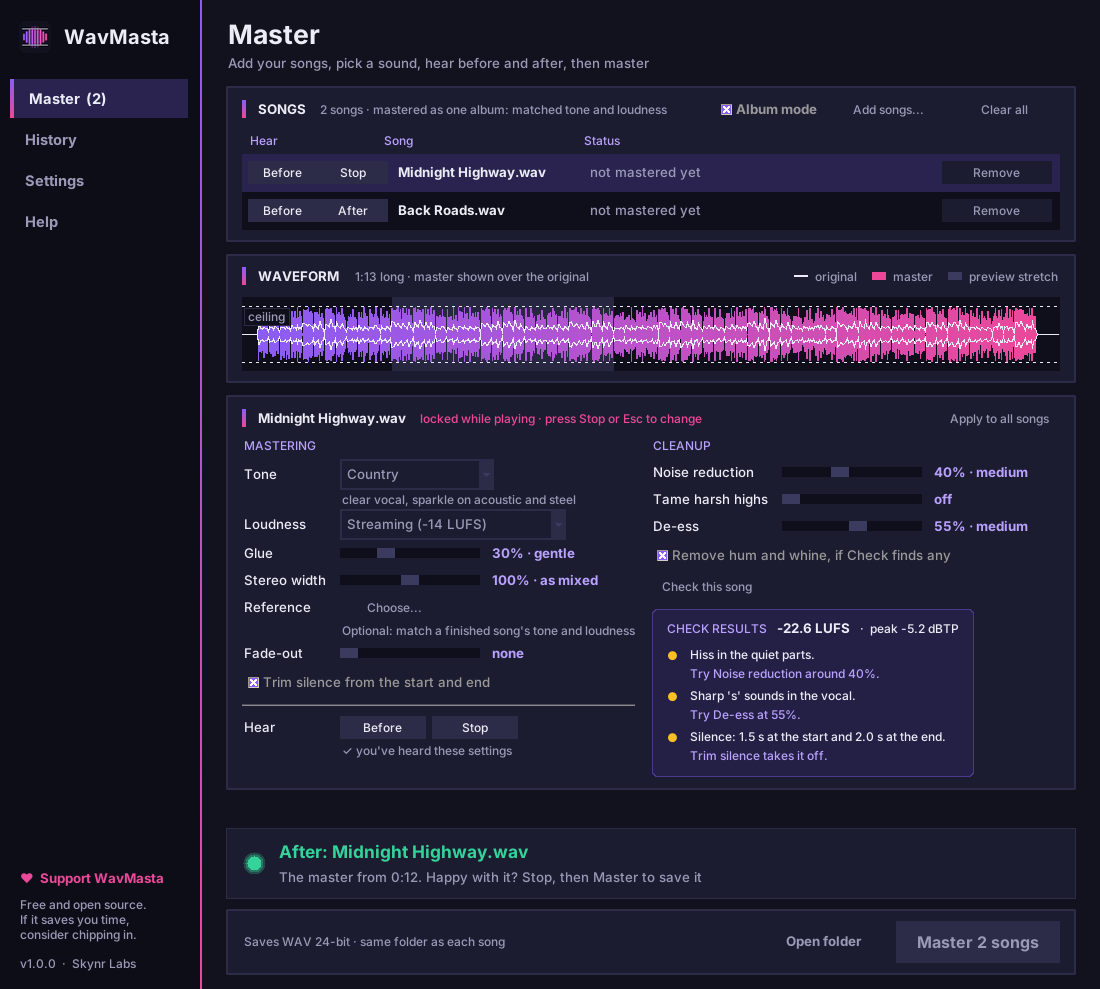
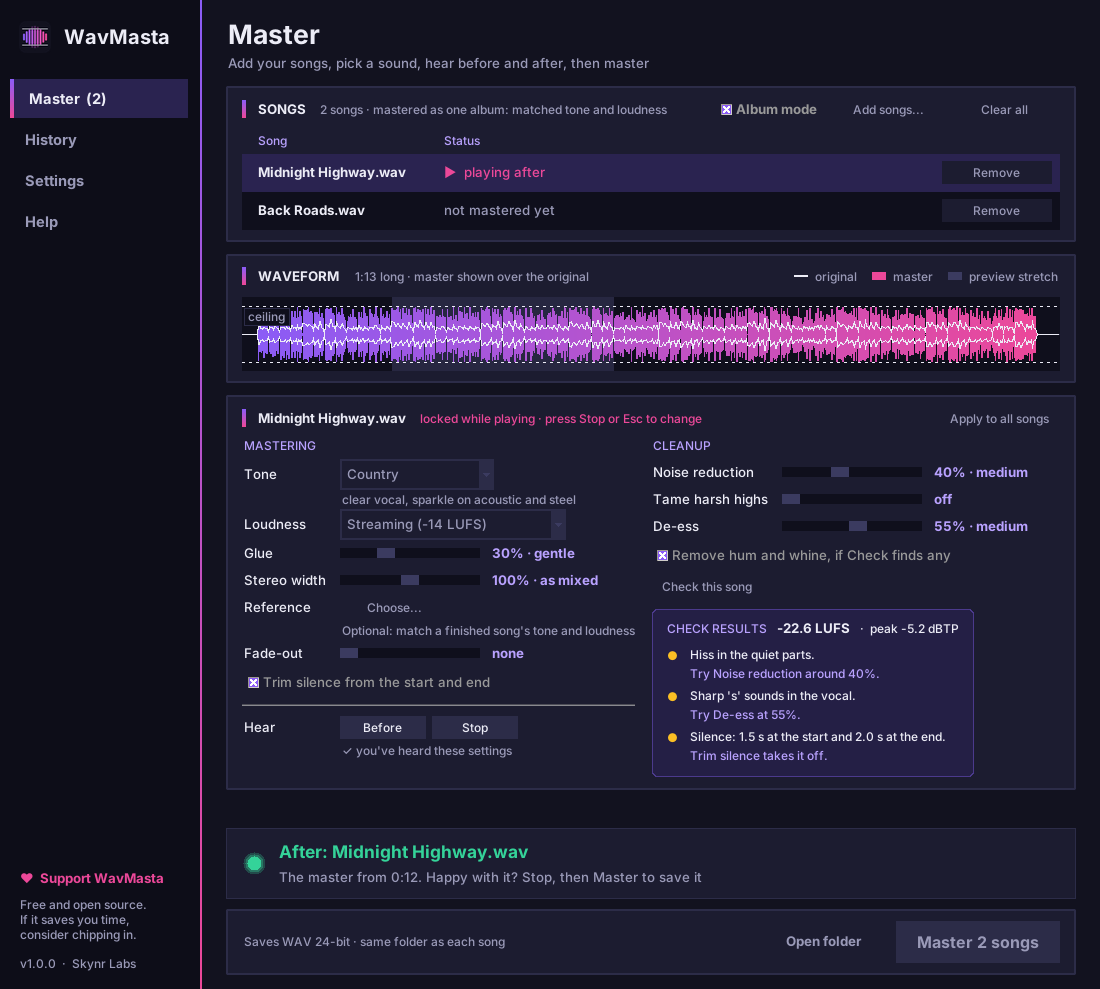
Take Before and After off the song rows: the sound card has them now
One place to listen, right under the settings. The songs list keeps the name, status and
Remove, and the song being heard says '▶ playing after' (or before) in its status until it stops.

Claude-Session: https://claude.ai/code/session_01Ce8T3vqW5MFDUd4Hd2ARY9

Changed region(s): [[0.2164, 0.1213, 0.4945, 0.2427], [0.5564, 0.1517, 0.6182, 0.182], [0.5255, 0.1213, 0.5564, 0.1517]]

diff --git a/wavmasta/gui/tracks_table.py b/wavmasta/gui/tracks_table.py
@@ -1,4 +1,7 @@
-"""The songs list: one row per song with Before and After buttons, status and a remove button."""
+"""The songs list: one row per song with its name, status and a remove button.
+
+Before and After live on the sound card, under the settings; the row of the song being heard
+says so in its status."""
 
 import tkinter as tk
 import tkinter.font as tkfont
@@ -10,15 +13,16 @@ from .theme import px
 ROW_HEIGHT = 38
 VISIBLE_ROWS = 4
 STATUS_COLORS = {"muted": "muted", "busy": "accent_soft", "ok": "ok", "warn": "warn"}
-# Pixel widths shared by the heading and every row so the columns line up: Before, After, Song, Status, Remove.
+# Pixel widths shared by the heading and every row so the columns line up: Song, Status, Remove.
 # Song is sized to fit the longest name (see TracksTable._layout); Status takes the rest.
-COLUMNS = [("Hear", 70), ("", 70), ("Song", 200), ("Status", 0), ("", 96)]
+COLUMNS = [("Song", 200), ("Status", 0), ("", 96)]
+SONG = 0  # index of the Song column
 SONG_SHARE = 0.55  # the Song column may use up to this much of the room left after the buttons
 
 
 def _columns(frame, song_width=None):
     for i, (_, width) in enumerate(COLUMNS):
-        w = song_width if (i == 2 and song_width) else px(frame, width)
+        w = song_width if (i == SONG and song_width) else px(frame, width)
         frame.columnconfigure(i, minsize=w, weight=1 if width == 0 else 0)
 
 
@@ -39,10 +43,10 @@ def fit_text(font, text, width):
 class TracksTable(ttk.Frame):
     """Rows are rebuilt when songs are added or removed; selection and status update in place."""
 
-    def __init__(self, parent, fonts, on_select, on_play, on_remove):
+    def __init__(self, parent, fonts, on_select, on_remove):
         super().__init__(parent, style="Inner.TFrame")
         self.F = fonts
-        self.on_select, self.on_play, self.on_remove = on_select, on_play, on_remove
+        self.on_select, self.on_remove = on_select, on_remove
         self.rows = []
         self.selected = None
         self.enabled = True
@@ -59,7 +63,7 @@ class TracksTable(ttk.Frame):
         _columns(head)
         for i, (text, _) in enumerate(COLUMNS):
             tk.Label(head, text=text, bg=T["card"], fg=T["accent_soft"], font=fonts["small"], anchor="w").grid(
-                row=0, column=i, sticky="w", padx=(6, 0) if i == 0 else 0
+                row=0, column=i, sticky="w", padx=(14, 0) if i == SONG else 0
             )
 
         self.canvas = tk.Canvas(self, bg=T["field"], highlightthickness=0, height=px(self, ROW_HEIGHT) * 2)
@@ -102,7 +106,7 @@ class TracksTable(ttk.Frame):
         else:
             self.empty.place(relx=0.5, rely=0.5, anchor="center")
         self.select(selected)
-        self.set_enabled(self.enabled, getattr(self, "keep_listening", False))
+        self.set_enabled(self.enabled)
         p = self.playing
         self.set_playing(p if p is not None and p[0] < n else None)
 
@@ -113,26 +117,17 @@ class TracksTable(ttk.Frame):
         frame.grid_propagate(False)
         frame.rowconfigure(0, weight=1)
         _columns(frame)
-        before = ttk.Button(
-            frame, text="Before", style="Small.TButton", width=6, command=lambda: self.on_play(i, "before")
-        )
-        before.grid(row=0, column=0, sticky="w", padx=(6, 0))
-        after = ttk.Button(
-            frame, text="After", style="Small.TButton", width=6, command=lambda: self.on_play(i, "after")
-        )
-        after.grid(row=0, column=1, sticky="w")
         name = tk.Label(frame, text=track.name, bg=T["field"], fg=T["text"], font=F["btn"], anchor="w")
-        name.grid(row=0, column=2, sticky="ew", padx=(8, 0))
+        name.grid(row=0, column=0, sticky="ew", padx=(14, 0))
         status = tk.Label(frame, text=track.status, bg=T["field"], font=F["body"], anchor="w")
-        status.grid(row=0, column=3, sticky="ew")
+        status.grid(row=0, column=1, sticky="ew")
         remove = ttk.Button(frame, text="Remove", style="Small.TButton", command=lambda: self.on_remove(i))
-        remove.grid(row=0, column=4, sticky="e", padx=(0, 8))
+        remove.grid(row=0, column=2, sticky="e", padx=(0, 8))
         row = {
             "frame": frame,
             "name": name,
             "status": status,
-            "before": before,
-            "after": after,
+            "track": track,
             "remove": remove,
             "full_name": track.name,
             "full_status": track.status,
@@ -160,9 +155,17 @@ class TracksTable(ttk.Frame):
             self._paint_status(self.rows[index], track)
 
     def _paint_status(self, row, track):
-        row["full_status"] = track.status
-        text = fit_text(self.status_font, track.status, self.status_width or 0)
-        row["status"].configure(text=text, fg=T[STATUS_COLORS.get(track.status_kind, "muted")])
+        row["track"] = track
+        i = self.rows.index(row) if row in self.rows else len(self.rows)
+        p = self.playing
+        if p is not None and p[0] == i:  # the song being heard says so, until it stops
+            row["full_status"] = f"▶  playing {p[1]}"
+            color = T["accent2"]
+        else:
+            row["full_status"] = track.status
+            color = T[STATUS_COLORS.get(track.status_kind, "muted")]
+        text = fit_text(self.status_font, row["full_status"], self.status_width or 0)
+        row["status"].configure(text=text, fg=color)
 
     def _layout(self):
         """Size the Song column to the longest name (within reason) and give Status the rest, so no
@@ -170,7 +173,7 @@ class TracksTable(ttk.Frame):
         width = self.canvas.winfo_width()
         if width <= 1:
             return
-        fixed = sum(px(self, w) for (_, w) in COLUMNS if w and _ != "Song") + px(self, 14)
+        fixed = sum(px(self, w) for (_, w) in COLUMNS if w and _ != "Song") + px(self, 22)
         room = max(0, width - fixed)
         gap = px(self, 16)
         longest = max((self.name_font.measure(r["full_name"]) for r in self.rows), default=0) + gap
@@ -182,22 +185,17 @@ class TracksTable(ttk.Frame):
             r["name"].configure(text=fit_text(self.name_font, r["full_name"], song - gap))
             r["status"].configure(text=fit_text(self.status_font, r["full_status"], self.status_width))
 
-    def set_enabled(self, on, keep_listening=False):
-        """on=False locks the rows. keep_listening leaves Before/After/Stop working (used while playing)."""
+    def set_enabled(self, on):
+        """on=False locks the rows: no selecting another song or removing one."""
         self.enabled = on
         for row in self.rows:
             row["remove"].state(["!disabled"] if on else ["disabled"])
-            for key in ("before", "after"):
-                row[key].state(["!disabled"] if on or keep_listening else ["disabled"])
-        self.keep_listening = keep_listening
 
     def set_playing(self, playing):
-        """The button being heard says Stop. playing: (row index, 'before' or 'after') or None."""
+        """Mark the row being heard. playing: (row index, 'before' or 'after') or None."""
         self.playing = playing
-        for i, row in enumerate(self.rows):
-            for which in ("before", "after"):
-                on = playing == (i, which)
-                row[which].configure(text="Stop" if on else which.capitalize())
+        for row in self.rows:
+            self._paint_status(row, row["track"])
 
     def set_drop_highlight(self, on):
         """Light up the list while files are dragged over the window."""

diff --git a/tests/test_gui.py b/tests/test_gui.py
@@ -11,6 +11,7 @@ import time
 import pytest
 
 tk = pytest.importorskip("tkinter")
+from tkinter import ttk  # noqa: E402
 
 pytestmark = pytest.mark.gui
 
@@ -211,14 +212,16 @@ def test_before_and_after_play_level_matched_clips(app, monkeypatch, copies):
     page(app)._play(0, "after")
     wait(app)
     assert app.played and "wavmasta_after_" in app.played[-1]
-    assert page(app).table.rows[0]["after"].cget("text") == "Stop"
+    assert page(app).card.hear["after"].cget("text") == "Stop"
+    assert page(app).table.rows[0]["status"].cget("text") == "▶  playing after"
     assert status(app).startswith("After:")
     # Before reuses the same render (no second wait) and plays the original
     page(app)._play(0, "before")
     wait(app)
     assert "wavmasta_before_" in app.played[-1]
-    assert page(app).table.rows[0]["before"].cget("text") == "Stop"
-    assert page(app).table.rows[0]["after"].cget("text") == "After"
+    assert page(app).card.hear["before"].cget("text") == "Stop"
+    assert page(app).card.hear["after"].cget("text") == "After"
+    assert page(app).table.rows[0]["status"].cget("text") == "▶  playing before"
     # same loudness, so the comparison is fair
     from wavmasta.core import load
     from wavmasta.core.analysis import lufs
@@ -350,9 +353,8 @@ def test_playing_locks_the_sound_until_stopped(app, monkeypatch, copies):
     assert "disabled" in page(app).add_btn.state() and "disabled" in row["remove"].state()
     assert "disabled" in app.action.master_btn.state()
     assert "Stop" in card.hint.get()
-    # ...but Before, After and Stop still work, on every row
-    for r in page(app).table.rows:
-        assert "disabled" not in r["before"].state() and "disabled" not in r["after"].state()
+    # ...but Before, After and Stop still work
+    assert "disabled" not in card.hear["before"].state() and "disabled" not in card.hear["after"].state()
     # clicking another song's name doesn't move the card away from what's playing
     page(app).table.rows[1]["name"].event_generate("<Button-1>")
     app.root.update()
@@ -367,6 +369,7 @@ def test_playing_locks_the_sound_until_stopped(app, monkeypatch, copies):
     assert "disabled" not in card.tone_box.state() and "disabled" not in app.action.master_btn.state()
     assert "disabled" not in row["remove"].state()
     assert "Stop" not in card.hint.get()
+    assert row["status"].cget("text") == "not mastered yet"  # the row goes back to its status
 
 
 def test_switching_before_and_after_stays_locked(app, monkeypatch, copies):
@@ -637,7 +640,7 @@ def test_card_before_and_after_play_the_selected_song(app, monkeypatch, copies):
     assert "wavmasta_after_" in app.played[-1] and "Hum Song" in status(app)
     assert page(app).table.playing == (1, "after")
     assert card.hear["after"].cget("text") == "Stop"
-    assert page(app).table.rows[1]["after"].cget("text") == "Stop"  # the row agrees
+    assert page(app).table.rows[1]["status"].cget("text") == "▶  playing after"  # the list shows which song
     # the settings lock, but Before/After/Stop on the card keep working
     assert all(s.cget("state") == "disabled" for s in card.sliders)
     assert "disabled" not in card.hear["before"].state()
@@ -658,11 +661,12 @@ def test_card_before_and_after_play_the_selected_song(app, monkeypatch, copies):
     assert card.hear_text.get() == "✓ you've heard these settings"
 
 
-def test_row_playback_shows_on_the_card_too(app, monkeypatch, copies):
+def test_songs_list_has_no_play_buttons(app, monkeypatch, copies):
     add(app, monkeypatch, [copies["clean"]])
-    page(app)._play(0, "after")
-    wait(app)
-    assert page(app).card.hear["after"].cget("text") == "Stop"
+    row = page(app).table.rows[0]
+    assert "before" not in row and "after" not in row
+    buttons = [w.cget("text") for w in row["frame"].winfo_children() if isinstance(w, ttk.Button)]
+    assert buttons == ["Remove"]
 
 
 def test_mastering_alone_is_not_listening(app, monkeypatch, copies):

diff --git a/wavmasta/gui/pages/master.py b/wavmasta/gui/pages/master.py
@@ -73,7 +73,7 @@ class MasterPage(ttk.Frame):
         self.album_check = ttk.Checkbutton(c.top, text="Album mode", variable=self.album_var, style="Card.TCheckbutton")
         self.album_check.pack(side="right", padx=(0, 14))
         self.album_var.trace_add("write", lambda *_: self._album_changed())
-        self.table = TracksTable(c, fonts, on_select=self.select, on_play=self._play, on_remove=self.remove)
+        self.table = TracksTable(c, fonts, on_select=self.select, on_remove=self.remove)
         self.table.grid(row=1, column=0, columnspan=3, sticky="ew")
 
     def add_files(self):
@@ -127,7 +127,7 @@ class MasterPage(ttk.Frame):
         self.on_change()
 
     def _play(self, index, which):
-        """A row's Before/After button: plays that version, or stops it if it's the one playing."""
+        """Before/After: plays that version of a song, or stops it if it's the one playing."""
         if self.table.playing == (index, which):
             self.on_stop()
             return
@@ -135,7 +135,7 @@ class MasterPage(ttk.Frame):
         self.on_play(which)
 
     def _play_selected(self, which):
-        """The sound card's Before/After: the same as the selected song's row buttons."""
+        """The sound card's Before/After: plays (or stops) the selected song."""
         if self.selected is not None:
             self._play(self.selected, which)
 
@@ -239,7 +239,7 @@ class MasterPage(ttk.Frame):
         """Working locks everything. Listening locks the sound settings (so what you hear always matches
         what they show) but leaves Before, After and Stop working."""
         locked = self.busy or self.playing
-        self.table.set_enabled(not locked, keep_listening=self.playing and not self.busy)
+        self.table.set_enabled(not locked)
         note = "locked while playing · press Stop or Esc to change" if self.playing and not self.busy else ""
         self.card.set_enabled(not locked, note, listening=self.playing and not self.busy)
         for b in (self.add_btn, self.clear_btn, self.album_check):

diff --git a/wavmasta/gui/pages/help.py b/wavmasta/gui/pages/help.py
@@ -27,11 +27,11 @@ HELP_TEXT = [
     ),
     (
         "p",
-        "4.  Press After to hear the master, Before to hear the original: on the song's row, or under Hear at "
-        "the bottom of the Mastering settings, right where you change them. Both play the loudest 20 seconds, "
-        "at the same loudness, so you hear the difference in sound, not just volume. Esc stops. Change a "
-        "setting and the card tells you to press After again. The Waveform "
-        "card then draws the master over the original, with the stretch you heard shaded.",
+        "4.  Click a song, then press After (under Hear, at the bottom of the Mastering settings) to hear the "
+        "master and Before to hear the original, right where you change the settings. Both play the loudest "
+        "20 seconds, at the same loudness, so you hear the difference in sound, not just volume. Esc stops. "
+        "Change a setting and the card tells you to press After again. The Waveform card then draws the "
+        "master over the original, with the stretch you heard shaded.",
     ),
     (
         "p",

diff --git a/wavmasta/gui/sound_card.py b/wavmasta/gui/sound_card.py
@@ -133,7 +133,7 @@ class SoundCard(ttk.Frame):
         self.trim_check = ttk.Checkbutton(f, text="Trim silence from the start and end", variable=self.trim_var)
         self.trim_check.grid(row=9, column=0, columnspan=2, sticky="w", pady=(4, 0))
 
-        # hear the change right here: the same Before/After as the song's row in the list
+        # hear the change right here, under the settings you just changed
         ttk.Separator(f).grid(row=10, column=0, columnspan=2, sticky="ew", pady=(10, 8))
         self._label(f, 11, "Hear")
         hear = ttk.Frame(f, style="Inner.TFrame")

diff --git a/wavmasta/gui/action_bar.py b/wavmasta/gui/action_bar.py
@@ -1,7 +1,7 @@
 """The bar along the bottom of every page: where files go, Open folder and Master.
 
-Before and After live on each song's row (and turn into Stop while playing), so it's always
-clear which song and which version you're hearing. Esc also stops playback.
+Before and After live on the sound card, under the settings (and turn into Stop while playing);
+the song being heard says so in the songs list. Esc also stops playback.
 """
 
 import tkinter as tk

diff --git a/wavmasta/gui/app.py b/wavmasta/gui/app.py
@@ -295,7 +295,7 @@ class WavMastaApp:
     def blocked_by_playback(self):
         """True (and says why) if a change is attempted while Before/After is playing."""
         if self.master_page.playing:
-            self.say("Stop playback first", "warn", "Press Stop on the song, or Esc, then change its sound")
+            self.say("Stop playback first", "warn", "Press Stop under Hear, or Esc, then change its sound")
             return True
         return False
 

diff --git a/README.md b/README.md
@@ -100,7 +100,7 @@ Everything happens on the **Master** page, top to bottom:
 1. **Drop your songs** (or a whole folder) onto the window, or click **Add songs...** (WAV, FLAC, MP3, AIFF, OGG or M4A). Use your final mix, ideally peaking around -3 to -6 dB with no limiter on the master bus.
 2. **Click a song**, then **Check this song**. WavMasta lists what it found; **Use suggestions** sets the cleanup for you.
 3. Pick a **Tone** and **Loudness** (or choose a **Reference** song to match), and a **Fade-out** if the song stops suddenly. **Apply to all songs** copies the sound to the rest; tick **Album mode** to also match their tone and loudness as a set.
-4. Press **After** to hear the master and **Before** to hear the original, both from the loudest part of the song at the same loudness. They're on each song's row and under **Hear** at the bottom of the sound card, right below the settings, so you can tweak, listen and tweak again. Change a setting and the card tells you to press **After** again. The button turns into **Stop** while it plays, and the sound settings lock until you stop, so what you hear always matches what they show. The **Waveform** card draws the master over the original.
+4. Press **After** to hear the master and **Before** to hear the original, both from the loudest part of the song at the same loudness. They're under **Hear** at the bottom of the sound card, right below the settings, so you can tweak, listen and tweak again; the song you're hearing says *▶ playing after* in the list. Change a setting and the card tells you to press **After** again. The button turns into **Stop** while it plays, and the sound settings lock until you stop, so what you hear always matches what they show. The **Waveform** card draws the master over the original.
 5. Click **Master** (it says how many songs). Each row shows when its file is saved, and says **changed · master again** if you change a setting afterwards.
 
 **History** lists everything Check, Before/After and Master did. Under each mastered song is a short report: clipping, true peak, loudness, punch, what cleanup removed, trimming and the ending. An album master adds how closely the songs' loudness now matches. Double-click a saved song to open its folder.
@@ -225,7 +225,7 @@ wavmasta/
     ├── journeys.py      Check, Before/After and Master workflows
     ├── pages/           Master, History, Settings and Help pages
     ├── model.py         Each song's own sound settings and status
-    ├── tracks_table.py  The songs list: a row per song with Before, After and status
+    ├── tracks_table.py  The songs list: a row per song with its status
     ├── sound_card.py    The selected song's sound card
     ├── waveform.py      The before/after waveform card
     ├── sidebar.py       Left-hand navigation
